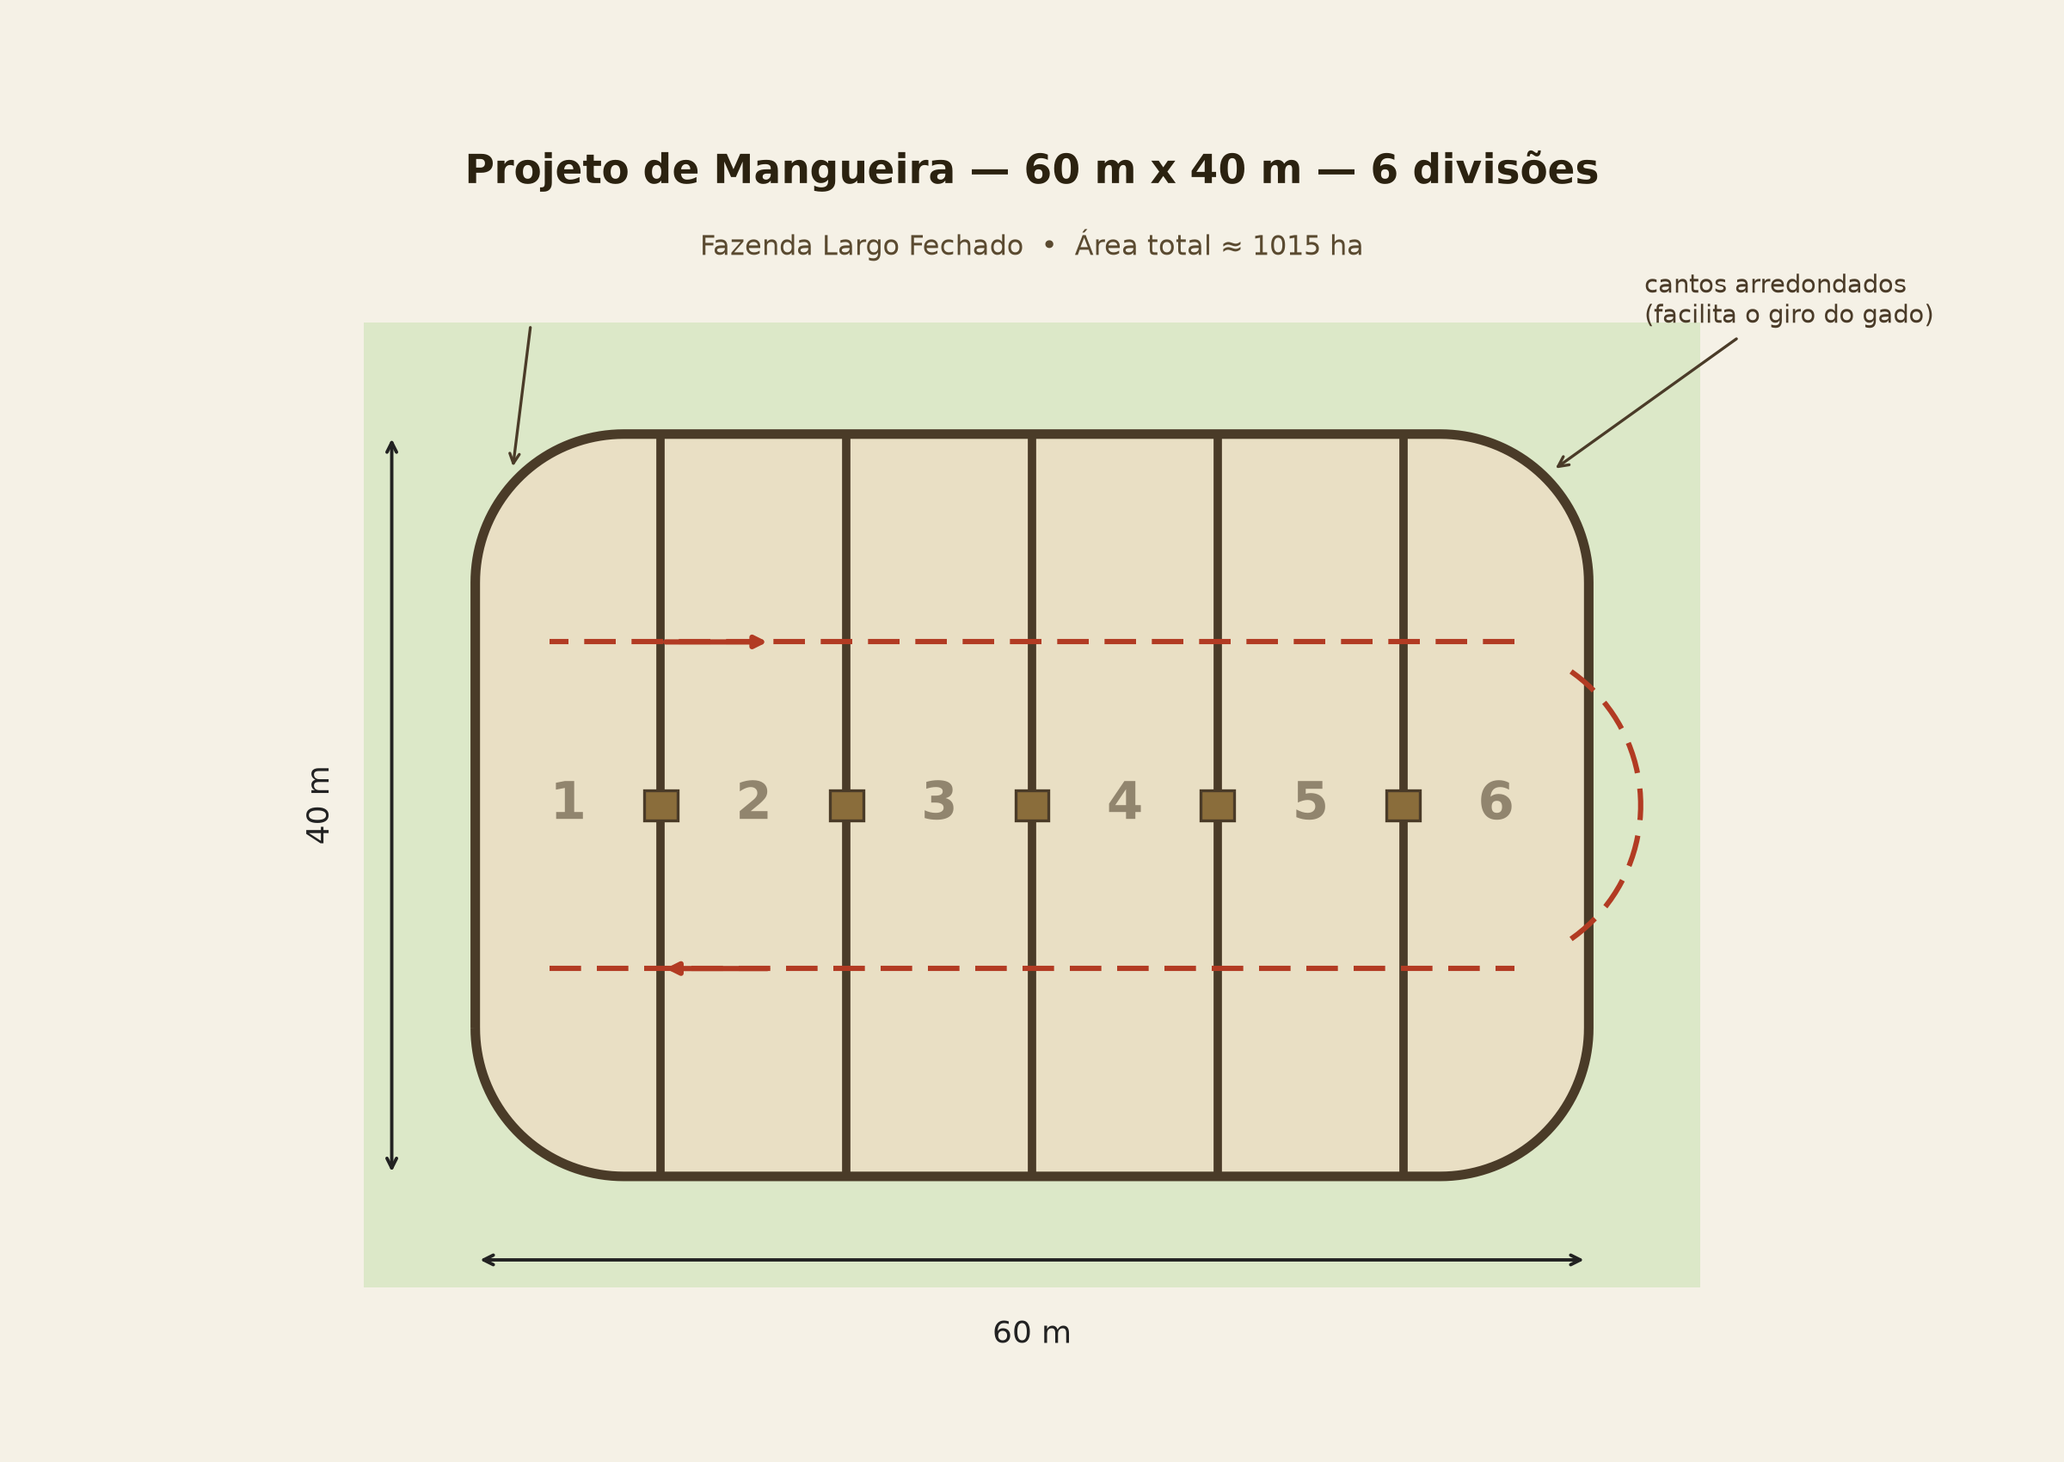
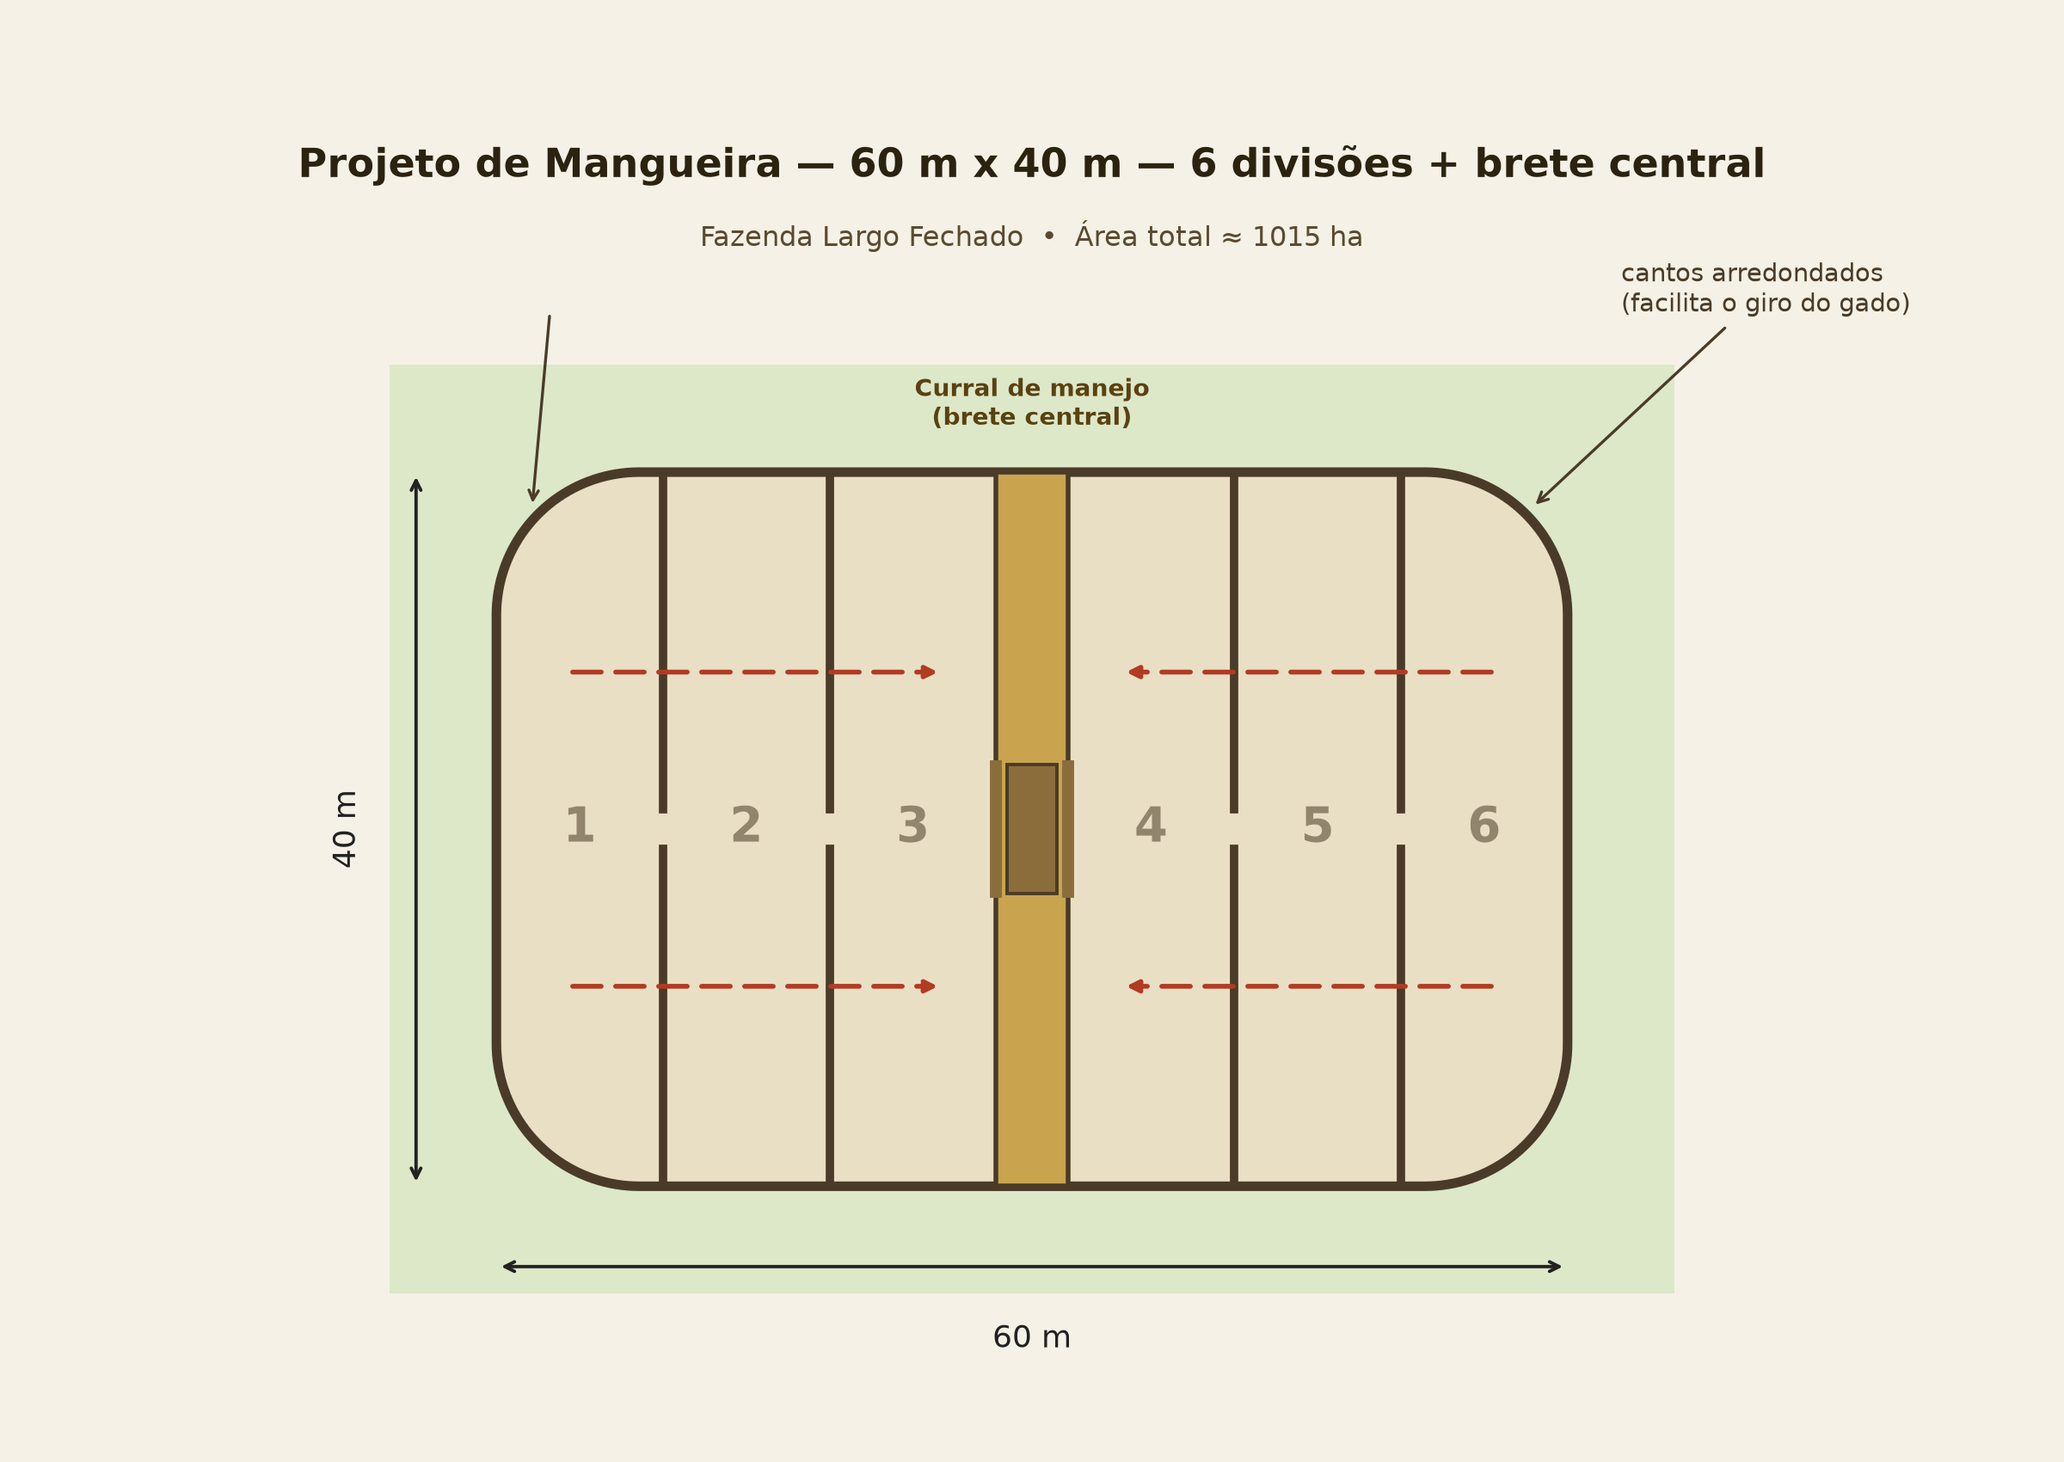
Adiciona brete central de manejo e vista aérea da propriedade
Corredor central atravessa a mangueira de um lado ao outro, com um
tronco de contenção para trabalhar o gado entre os piquetes 3 e 4.
Inclui nova imagem aérea esquemática mostrando a mangueira junto com
o pomar e a casa, para visualizar a disposição geral da sede.

Claude-Session: https://claude.ai/code/session_01B2s8ECTjQbPqyVYzuzEcJN

Changed region(s): [[0.1562, 0.1871, 0.9375, 0.9353], [0.125, 0.0935, 0.875, 0.1247], [0.3438, 0.1559, 0.6562, 0.1871]]

diff --git a/projeto-mangueira/gerar_mangueira.py b/projeto-mangueira/gerar_mangueira.py
@@ -2,124 +2,61 @@ import matplotlib
 matplotlib.use("Agg")
 import matplotlib.pyplot as plt
 import matplotlib.patches as mpatches
-from matplotlib.path import Path
 import numpy as np
+from mangueira_lib import desenhar_mangueira
 
-# ---------- Parametros gerais ----------
-LARGO = 60.0   # comprimento (eixo X) - lado "60"
-ALTO  = 40.0   # largura   (eixo Y) - lado "40" (onde os cantos devem ser arredondados)
-N_DIV = 6      # numero de divisoes/piquetes
-R     = 8.0    # raio de arredondamento dos cantos (nas pontas de 40m)
+LARGO, ALTO, R = 60.0, 40.0, 8.0
 
-x0, y0 = 0.0, 0.0
-x1, y1 = LARGO, ALTO
-
-def arco(cx, cy, r, a_ini, a_fim, n=40):
-    ang = np.linspace(np.radians(a_ini), np.radians(a_fim), n)
-    return cx + r*np.cos(ang), cy + r*np.sin(ang)
-
-# Contorno externo (retangulo com os 4 cantos arredondados)
-xs, ys = [], []
-def add(px, py):
-    xs.extend(np.atleast_1d(px)); ys.extend(np.atleast_1d(py))
-
-add(x0+R, y0)
-add(x1-R, y0)
-ax_, ay_ = arco(x1-R, y0+R, R, -90, 0);      add(ax_, ay_)
-add(x1, y1-R)
-ax_, ay_ = arco(x1-R, y1-R, R, 0, 90);       add(ax_, ay_)
-add(x0+R, y1)
-ax_, ay_ = arco(x0+R, y1-R, R, 90, 180);     add(ax_, ay_)
-add(x0, y0+R)
-ax_, ay_ = arco(x0+R, y0+R, R, 180, 270);    add(ax_, ay_)
-
-contorno = np.array(list(zip(xs, ys)))
-
-# ---------- Figura ----------
 fig, ax = plt.subplots(figsize=(12, 8.5), dpi=200)
 fig.patch.set_facecolor("#f5f1e6")
 ax.set_facecolor("#f5f1e6")
 
-# chao / area verde de fundo (pasto)
-ax.add_patch(mpatches.Rectangle((x0-6, y0-6), LARGO+12, ALTO+12,
+ax.add_patch(mpatches.Rectangle((-6, -6), LARGO+12, ALTO+12,
                                  facecolor="#dce8c8", edgecolor="none", zorder=0))
 
-# cerca externa (contorno arredondado)
-cerca = mpatches.Polygon(contorno, closed=True, fill=True,
-                          facecolor="#e9dfc4", edgecolor="#4a3b28", linewidth=4, zorder=2)
-ax.add_patch(cerca)
+x0, y0, x1, y1 = desenhar_mangueira(ax, 0, 0, LARGO, ALTO, R, simples=False)
 
-# divisorias internas (retas), separando os 6 piquetes
-passo = LARGO / N_DIV
-gate_w = 1.6   # abertura das porteiras
-for k in range(1, N_DIV):
-    xk = x0 + k*passo
-    # porteira no meio de cada divisoria interna
-    ax.plot([xk, xk], [y0, ALTO/2 - gate_w/2], color="#4a3b28", linewidth=3.5, zorder=3)
-    ax.plot([xk, xk], [ALTO/2 + gate_w/2, y1], color="#4a3b28", linewidth=3.5, zorder=3)
-    # simbolo da porteira (retangulo fino)
-    ax.add_patch(mpatches.Rectangle((xk-0.9, ALTO/2 - gate_w/2), 1.8, gate_w,
-                                     facecolor="#8a6d3b", edgecolor="#4a3b28", linewidth=1.2, zorder=4))
-
-# numeracao dos piquetes
-for k in range(N_DIV):
-    cx = x0 + (k+0.5)*passo
-    ax.text(cx, ALTO/2, f"{k+1}", fontsize=22, fontweight="bold",
-            ha="center", va="center", color="#4a3b28", alpha=0.55, zorder=5)
-
-# seta de fluxo do gado, contornando as pontas arredondadas
-def seta_fluxo():
-    # entra pelo canto inferior esquerdo, segue reto, contorna a ponta direita arredondada
-    t = np.linspace(0, 1, 200)
-    path_x = x0 + 4 + t*(LARGO - 8)
-    path_y = np.full_like(path_x, ALTO*0.28)
-    ax.plot(path_x, path_y, color="#b23b23", linewidth=2.2, linestyle=(0,(6,3)), zorder=6)
-    # curva na ponta direita (contornando o arredondado) subindo para o outro corredor
-    ang = np.linspace(-70, 70, 60)
-    cx_, cy_ = arco(x1-R-0.5, ALTO/2, R+0.5+ (ALTO*0.28-ALTO/2)*0, 200, 200)  # placeholder unused
-    curva_x, curva_y = arco(x1-6, ALTO/2, ALTO*0.22, -55, 55)
-    ax.plot(curva_x, curva_y, color="#b23b23", linewidth=2.2, linestyle=(0,(6,3)), zorder=6)
-    path_x2 = x0 + 4 + t*(LARGO - 8)
-    path_y2 = np.full_like(path_x2, ALTO*0.72)
-    ax.plot(path_x2[::-1], path_y2, color="#b23b23", linewidth=2.2, linestyle=(0,(6,3)), zorder=6)
-    ax.annotate("", xy=(x0+10, ALTO*0.28), xytext=(x0+16, ALTO*0.28),
-                arrowprops=dict(arrowstyle="-|>", color="#b23b23", lw=2.2), zorder=6)
-    ax.annotate("", xy=(x0+16, ALTO*0.72), xytext=(x0+10, ALTO*0.72),
-                arrowprops=dict(arrowstyle="-|>", color="#b23b23", lw=2.2), zorder=6)
-
-seta_fluxo()
-
-# cotas (dimensoes)
-def cota_horizontal(y, x_ini, x_fim, texto):
+# seta de fluxo do gado nos 3 piquetes da esquerda e da direita, convergindo
+# para o corredor central de manejo
+def seta(x_ini, x_fim, y, cor="#b23b23"):
     ax.annotate("", xy=(x_fim, y), xytext=(x_ini, y),
-                arrowprops=dict(arrowstyle="<->", color="#222", lw=1.4))
-    ax.text((x_ini+x_fim)/2, y-3.2, texto, ha="center", va="top", fontsize=13, color="#222")
+                arrowprops=dict(arrowstyle="-|>", color=cor, lw=2.0,
+                                 linestyle=(0, (6, 3))))
 
-def cota_vertical(x, y_ini, y_fim, texto):
-    ax.annotate("", xy=(x, y_fim), xytext=(x, y_ini),
+seta(4, 25, ALTO*0.28)
+seta(56, 35, ALTO*0.28)
+seta(4, 25, ALTO*0.72)
+seta(56, 35, ALTO*0.72)
+
+# cotas
+def cota_h(y, xi, xf, texto):
+    ax.annotate("", xy=(xf, y), xytext=(xi, y),
                 arrowprops=dict(arrowstyle="<->", color="#222", lw=1.4))
-    ax.text(x-3.0, (y_ini+y_fim)/2, texto, ha="right", va="center", fontsize=13,
+    ax.text((xi+xf)/2, y-3.2, texto, ha="center", va="top", fontsize=13, color="#222")
+
+def cota_v(x, yi, yf, texto):
+    ax.annotate("", xy=(x, yf), xytext=(x, yi),
+                arrowprops=dict(arrowstyle="<->", color="#222", lw=1.4))
+    ax.text(x-3.0, (yi+yf)/2, texto, ha="right", va="center", fontsize=13,
             rotation=90, color="#222")
 
-cota_horizontal(-4.5, x0, x1, "60 m")
-cota_vertical(-4.5, y0, y1, "40 m")
+cota_h(-4.5, x0, x1, "60 m")
+cota_v(-4.5, y0, y1, "40 m")
 
-# legenda dos cantos arredondados
 ax.annotate("cantos arredondados\n(facilita o giro do gado)",
-            xy=(x1-2, ALTO-2), xytext=(x1+3, ALTO+6),
+            xy=(x1-2, ALTO-2), xytext=(x1+3, ALTO+9),
             fontsize=10.5, color="#4a3b28",
             arrowprops=dict(arrowstyle="->", color="#4a3b28", lw=1.2))
-ax.annotate("", xy=(x0+2, ALTO-2), xytext=(x0+3, ALTO+6),
+ax.annotate("", xy=(x0+2, ALTO-2), xytext=(x0+3, ALTO+9),
             arrowprops=dict(arrowstyle="->", color="#4a3b28", lw=1.2))
 
-# titulo e info da fazenda
-ax.text(LARGO/2, ALTO+13, "Projeto de Mangueira — 60 m x 40 m — 6 divisões",
-        ha="center", va="bottom", fontsize=17, fontweight="bold", color="#2b2210")
-ax.text(LARGO/2, ALTO+9.3, "Fazenda Largo Fechado  •  Área total ≈ 1015 ha",
+ax.text(LARGO/2, ALTO+16, "Projeto de Mangueira — 60 m x 40 m — 6 divisões + brete central",
+        ha="center", va="bottom", fontsize=16.5, fontweight="bold", color="#2b2210")
+ax.text(LARGO/2, ALTO+12.3, "Fazenda Largo Fechado  •  Área total ≈ 1015 ha",
         ha="center", va="bottom", fontsize=11.5, color="#5a4a30")
 
-ax.set_xlim(x0-14, x1+14)
-ax.set_ylim(y0-14, y1+22)
+ax.set_xlim(-14, LARGO+14)
+ax.set_ylim(-14, ALTO+25)
 ax.set_aspect("equal")
 ax.axis("off")
 

diff --git a/projeto-mangueira/gerar_propriedade.py b/projeto-mangueira/gerar_propriedade.py
@@ -1,0 +1,101 @@
+import matplotlib
+matplotlib.use("Agg")
+import matplotlib.pyplot as plt
+import matplotlib.patches as mpatches
+import numpy as np
+from mangueira_lib import desenhar_mangueira
+
+rng = np.random.default_rng(7)
+
+fig, ax = plt.subplots(figsize=(13, 9), dpi=200)
+fig.patch.set_facecolor("#eef2e4")
+ax.set_facecolor("#eef2e4")
+
+W, H = 180.0, 120.0
+
+# pasto de fundo
+ax.add_patch(mpatches.Rectangle((-10, -10), W+20, H+20,
+                                 facecolor="#cfe0ac", edgecolor="none", zorder=0))
+# textura leve de pasto (listras)
+for i in range(-10, int(W)+10, 6):
+    ax.plot([i, i-25], [-10, H+10], color="#c3d69c", linewidth=10, alpha=0.35, zorder=0)
+
+# cerca da sede (area do conjunto casa + pomar + mangueira)
+sede = mpatches.FancyBboxPatch((2, 2), W-4, H-4,
+                                boxstyle="round,pad=0,rounding_size=3",
+                                fill=False, edgecolor="#5a4a30", linewidth=2.5,
+                                linestyle=(0, (10, 4)), zorder=1)
+ax.add_patch(sede)
+ax.text(6, H-2, "Sede da propriedade (ilustrativo) — Fazenda Largo Fechado, ≈1015 ha",
+        fontsize=10, color="#5a4a30", va="bottom")
+
+# ---------------- CASA ----------------
+casa_x, casa_y, casa_w, casa_h = 14, 82, 22, 16
+ax.add_patch(mpatches.Rectangle((casa_x-2.5, casa_y-2.5), casa_w+5, casa_h+5,
+                                 facecolor="#e4d9b0", edgecolor="none", zorder=1.5))  # quintal
+ax.add_patch(mpatches.Rectangle((casa_x, casa_y), casa_w, casa_h,
+                                 facecolor="#c1543a", edgecolor="#5a2a1c", linewidth=2, zorder=2))
+ax.plot([casa_x, casa_x+casa_w], [casa_y+casa_h/2, casa_y+casa_h/2],
+        color="#5a2a1c", linewidth=1.6, zorder=3)  # cumeeira do telhado
+ax.add_patch(mpatches.Rectangle((casa_x+casa_w*0.62, casa_y+casa_h*0.15),
+                                 casa_w*0.12, casa_h*0.12,
+                                 facecolor="#7a7a7a", edgecolor="#4a4a4a", zorder=3))  # chamine
+ax.text(casa_x+casa_w/2, casa_y-3.5, "Casa", ha="center", va="top",
+        fontsize=12, fontweight="bold", color="#3a2a15")
+
+# ---------------- POMAR ----------------
+pom_x0, pom_y0, pom_x1, pom_y1 = 10, 22, 62, 68
+ax.add_patch(mpatches.Rectangle((pom_x0-2, pom_y0-2), (pom_x1-pom_x0)+4, (pom_y1-pom_y0)+4,
+                                 facecolor="#d9e8bd",
+                                 edgecolor="#7a8f52", linewidth=1.8, linestyle="--", zorder=1))
+cols = np.arange(pom_x0+4, pom_x1-2, 7.0)
+rows = np.arange(pom_y0+4, pom_y1-2, 7.0)
+for cy in rows:
+    for cx in cols:
+        jitter_x = rng.uniform(-0.6, 0.6)
+        jitter_y = rng.uniform(-0.6, 0.6)
+        r = rng.uniform(2.3, 2.9)
+        ax.add_patch(plt.Circle((cx+jitter_x, cy+jitter_y), r,
+                                 facecolor="#5f9a4a",
+                                 edgecolor="#3f6b30", linewidth=0.8, zorder=2))
+        ax.add_patch(plt.Circle((cx+jitter_x, cy+jitter_y), r*0.18,
+                                 facecolor="#4a3320", edgecolor="none", zorder=2.1))
+ax.text((pom_x0+pom_x1)/2, pom_y1+3.5, "Pomar", ha="center", va="bottom",
+        fontsize=12, fontweight="bold", color="#3a5a25")
+
+# ---------------- MANGUEIRA ----------------
+mx0, my0 = 96, 18
+desenhar_mangueira(ax, mx0, my0, 60, 40, 8.0, simples=True)
+ax.text(mx0+30, my0-5.5, "Mangueira (curral de manejo)", ha="center", va="top",
+        fontsize=12, fontweight="bold", color="#3a2a15")
+
+# ---------------- ESTRADA INTERNA ----------------
+estrada_x = [casa_x+casa_w+2, casa_x+casa_w+2, mx0+30, mx0+30]
+estrada_y = [casa_y, 50, 50, my0+40]
+ax.plot(estrada_x, estrada_y, color="#a9895a", linewidth=6, solid_capstyle="round",
+        zorder=1.2, alpha=0.9)
+ax.plot(estrada_x, estrada_y, color="#c9ac78", linewidth=2.2, linestyle=(0, (3, 3)),
+        zorder=1.3)
+
+# ---------------- ROSA DOS VENTOS ----------------
+nx, ny = W-14, H-18
+ax.annotate("", xy=(nx, ny+8), xytext=(nx, ny-8),
+            arrowprops=dict(arrowstyle="-|>", color="#3a2a15", lw=2))
+ax.text(nx, ny+10, "N", ha="center", va="bottom", fontsize=13, fontweight="bold",
+        color="#3a2a15")
+
+# titulo
+ax.text(W/2, H+9, "Vista aérea esquemática da propriedade",
+        ha="center", va="bottom", fontsize=18, fontweight="bold", color="#2b2210")
+ax.text(W/2, H+4.5, "Casa + pomar + mangueira (60 m x 40 m, 6 divisões + brete central)",
+        ha="center", va="bottom", fontsize=11.5, color="#5a4a30")
+
+ax.set_xlim(-8, W+8)
+ax.set_ylim(-8, H+16)
+ax.set_aspect("equal")
+ax.axis("off")
+
+plt.tight_layout()
+out = "/tmp/claude-0/-home-user-Fluxograma/cde058c5-bd08-59c4-827a-76fac67e8999/scratchpad/propriedade_aerea.png"
+plt.savefig(out, facecolor=fig.get_facecolor())
+print("salvo em", out)

diff --git a/projeto-mangueira/mangueira_lib.py b/projeto-mangueira/mangueira_lib.py
@@ -1,0 +1,90 @@
+import numpy as np
+import matplotlib.patches as mpatches
+
+
+def arco(cx, cy, r, a_ini, a_fim, n=40):
+    ang = np.linspace(np.radians(a_ini), np.radians(a_fim), n)
+    return cx + r*np.cos(ang), cy + r*np.sin(ang)
+
+
+def contorno_arredondado(x0, y0, x1, y1, r):
+    """Retorna os vertices de um retangulo com os 4 cantos arredondados."""
+    xs, ys = [], []
+
+    def add(px, py):
+        xs.extend(np.atleast_1d(px)); ys.extend(np.atleast_1d(py))
+
+    add(x0+r, y0)
+    add(x1-r, y0)
+    a, b = arco(x1-r, y0+r, r, -90, 0);   add(a, b)
+    add(x1, y1-r)
+    a, b = arco(x1-r, y1-r, r, 0, 90);    add(a, b)
+    add(x0+r, y1)
+    a, b = arco(x0+r, y1-r, r, 90, 180);  add(a, b)
+    add(x0, y0+r)
+    a, b = arco(x0+r, y0+r, r, 180, 270); add(a, b)
+    return np.array(list(zip(xs, ys)))
+
+
+def desenhar_mangueira(ax, ox=0.0, oy=0.0, largo=60.0, alto=40.0, r=8.0,
+                        n_div=6, corredor_w=4.0, simples=False, zbase=2):
+    """Desenha a mangueira (curral) em planta, com origem (ox, oy) no canto
+    inferior esquerdo. Se `simples=True`, omite rotulos/cotas/setas (usado
+    na vista aerea da propriedade)."""
+    x0, y0 = ox, oy
+    x1, y1 = ox+largo, oy+alto
+
+    contorno = contorno_arredondado(x0, y0, x1, y1, r)
+    cerca = mpatches.Polygon(contorno, closed=True, fill=True,
+                              facecolor="#e9dfc4", edgecolor="#4a3b28",
+                              linewidth=3 if simples else 4, zorder=zbase)
+    ax.add_patch(cerca)
+
+    # corredor central de manejo (corta do lado de baixo ao lado de cima)
+    cx0 = ox + largo/2 - corredor_w/2
+    cx1 = ox + largo/2 + corredor_w/2
+    ax.add_patch(mpatches.Rectangle((cx0, y0), corredor_w, alto,
+                                     facecolor="#c9a34e", edgecolor="#4a3b28",
+                                     linewidth=2, zorder=zbase+1))
+    # bretezinho (tronco de contencao) dentro do corredor
+    tronco_h = alto*0.18
+    ax.add_patch(mpatches.Rectangle((cx0+corredor_w*0.15, y0+alto/2-tronco_h/2),
+                                     corredor_w*0.7, tronco_h,
+                                     facecolor="#8a6d3b", edgecolor="#4a3b28",
+                                     linewidth=1.4, zorder=zbase+2))
+
+    # 6 piquetes: 3 de cada lado do corredor central
+    lado_w = (largo/2 - corredor_w/2)
+    passo = lado_w / (n_div/2)
+    gate_w = alto*0.055
+
+    def divisorias(x_ini, n):
+        for k in range(1, n):
+            xk = x_ini + k*passo
+            ax.plot([xk, xk], [y0, y0+alto/2-gate_w/2], color="#4a3b28",
+                    linewidth=2.6 if simples else 3.5, zorder=zbase+1)
+            ax.plot([xk, xk], [y0+alto/2+gate_w/2, y1], color="#4a3b28",
+                    linewidth=2.6 if simples else 3.5, zorder=zbase+1)
+
+    divisorias(x0, 3)
+    divisorias(x0+lado_w+corredor_w, 3)
+
+    # portais ligando os piquetes 3 e 4 ao corredor central
+    for xk, side in [(cx0, -1), (cx1, 1)]:
+        ax.plot([xk, xk], [y0+alto/2-gate_w*1.6, y0+alto/2+gate_w*1.6],
+                color="#8a6d3b", linewidth=5 if not simples else 3, zorder=zbase+2)
+
+    if not simples:
+        # numeracao dos piquetes
+        for k in range(3):
+            cxp = x0 + (k+0.5)*passo
+            ax.text(cxp, oy+alto/2, f"{k+1}", fontsize=20, fontweight="bold",
+                    ha="center", va="center", color="#4a3b28", alpha=0.55, zorder=zbase+3)
+        for k in range(3):
+            cxp = x0+lado_w+corredor_w + (k+0.5)*passo
+            ax.text(cxp, oy+alto/2, f"{k+4}", fontsize=20, fontweight="bold",
+                    ha="center", va="center", color="#4a3b28", alpha=0.55, zorder=zbase+3)
+        ax.text(ox+largo/2, oy+alto+2.2, "Curral de manejo\n(brete central)",
+                ha="center", va="bottom", fontsize=10, color="#5a4110", fontweight="bold")
+
+    return x0, y0, x1, y1
